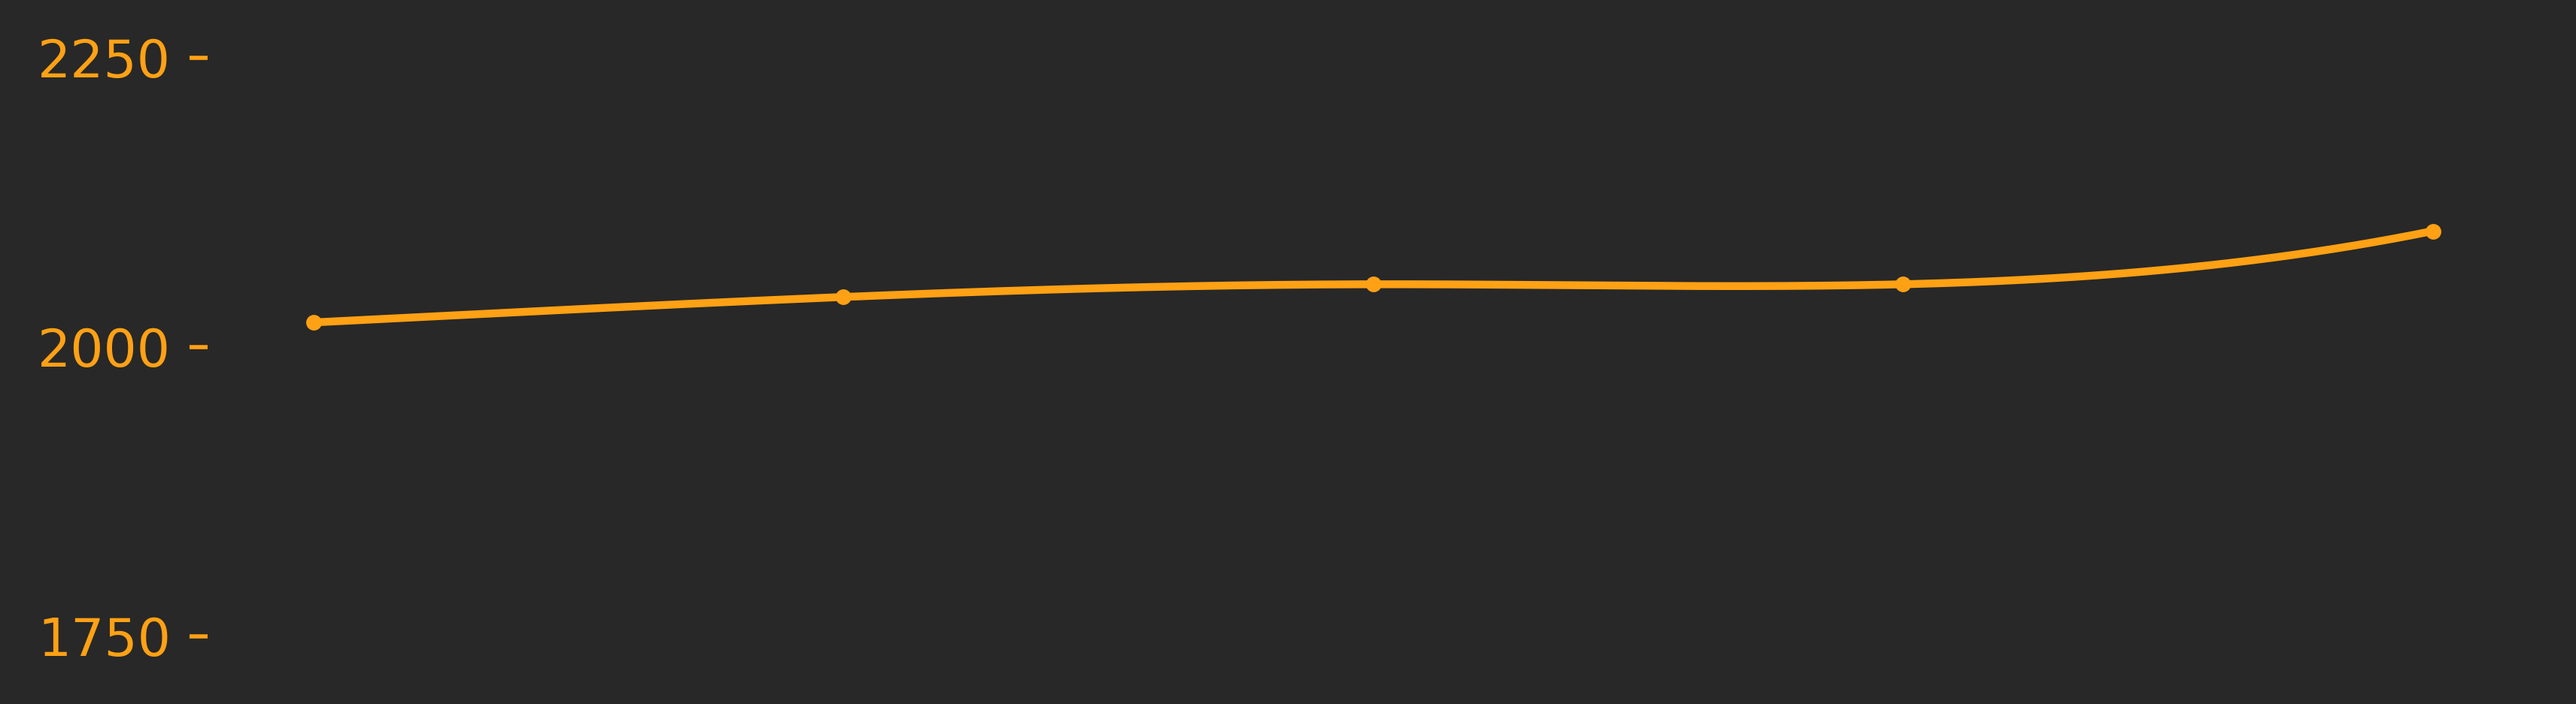
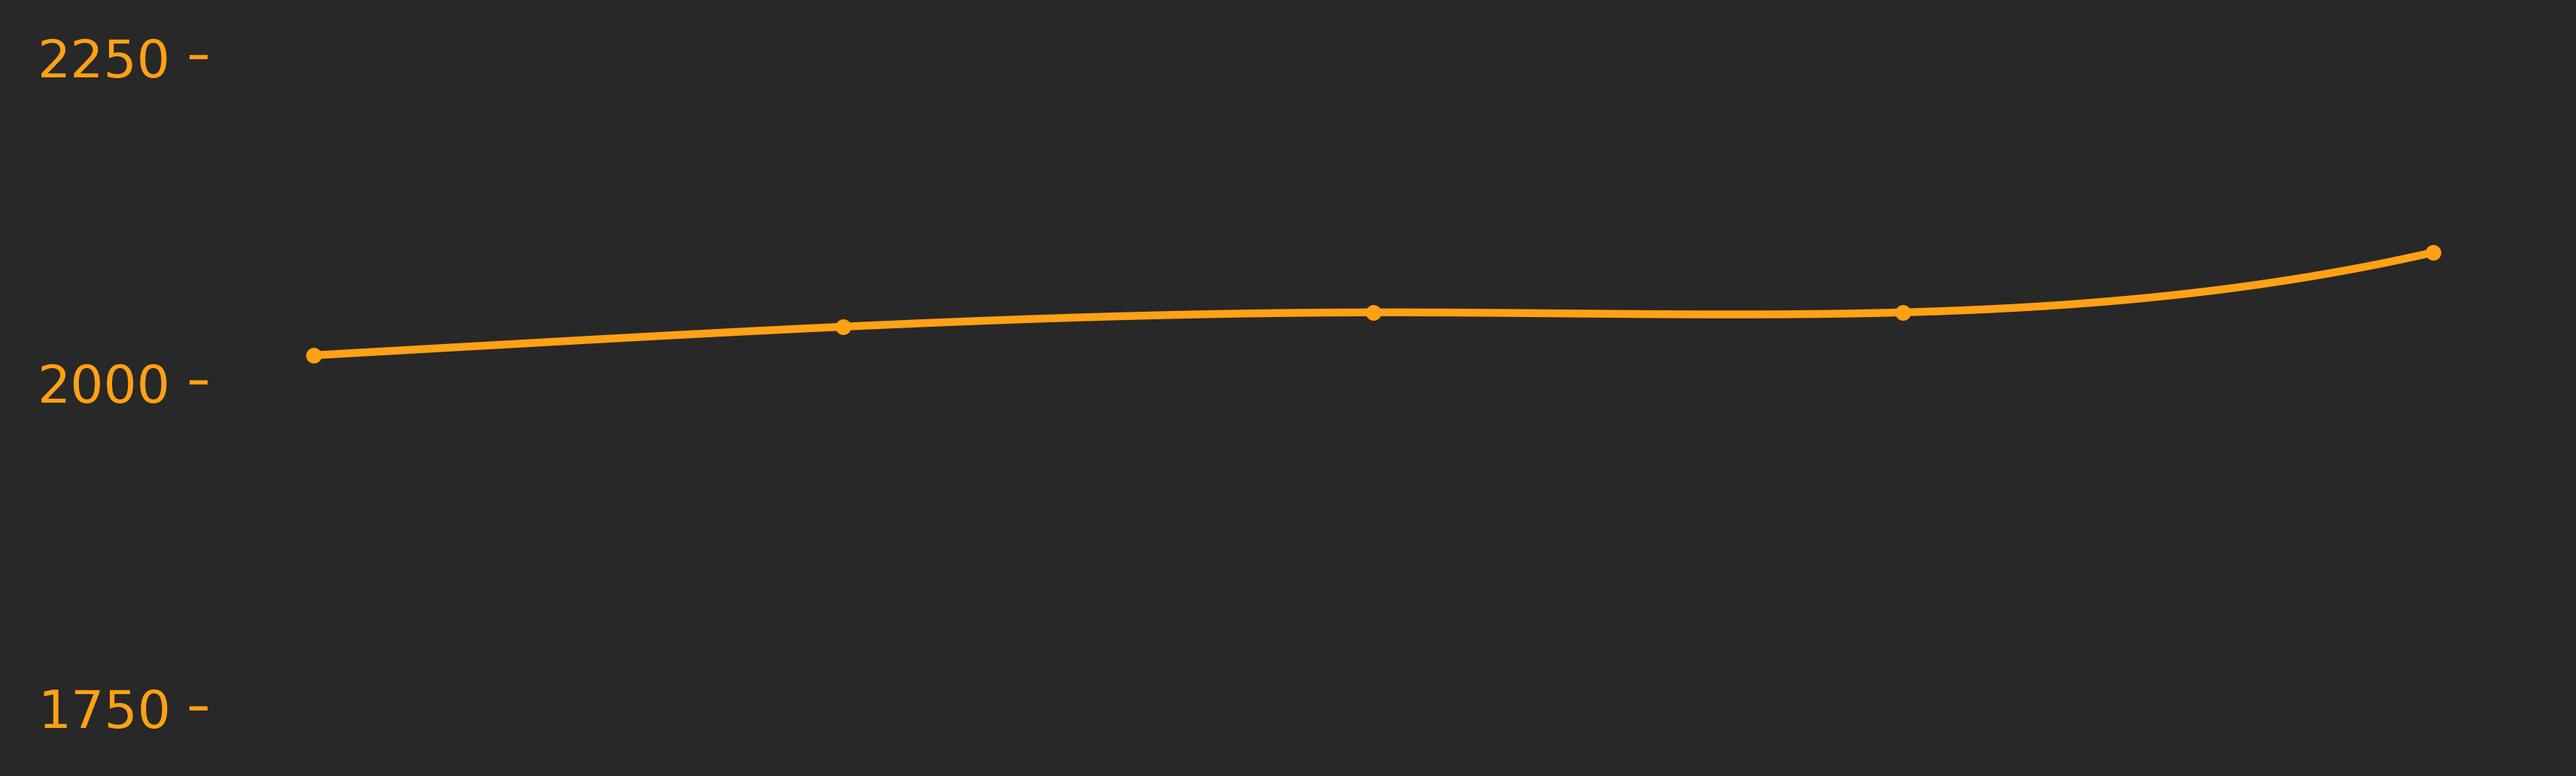
2.25

diff --git a/generate_graph.py b/generate_graph.py
@@ -33,7 +33,7 @@ def generate_graph(filename="data.csv"):
     )
 
     fig = plt.gcf()
-    fig.set_size_inches(8, 2)
+    fig.set_size_inches(8, 2.25)
 
     if max(y0) < 3000:
         plt.yticks(np.arange(min(y0) // 250 * 250 - 250, max(y0) + 250, 250))
